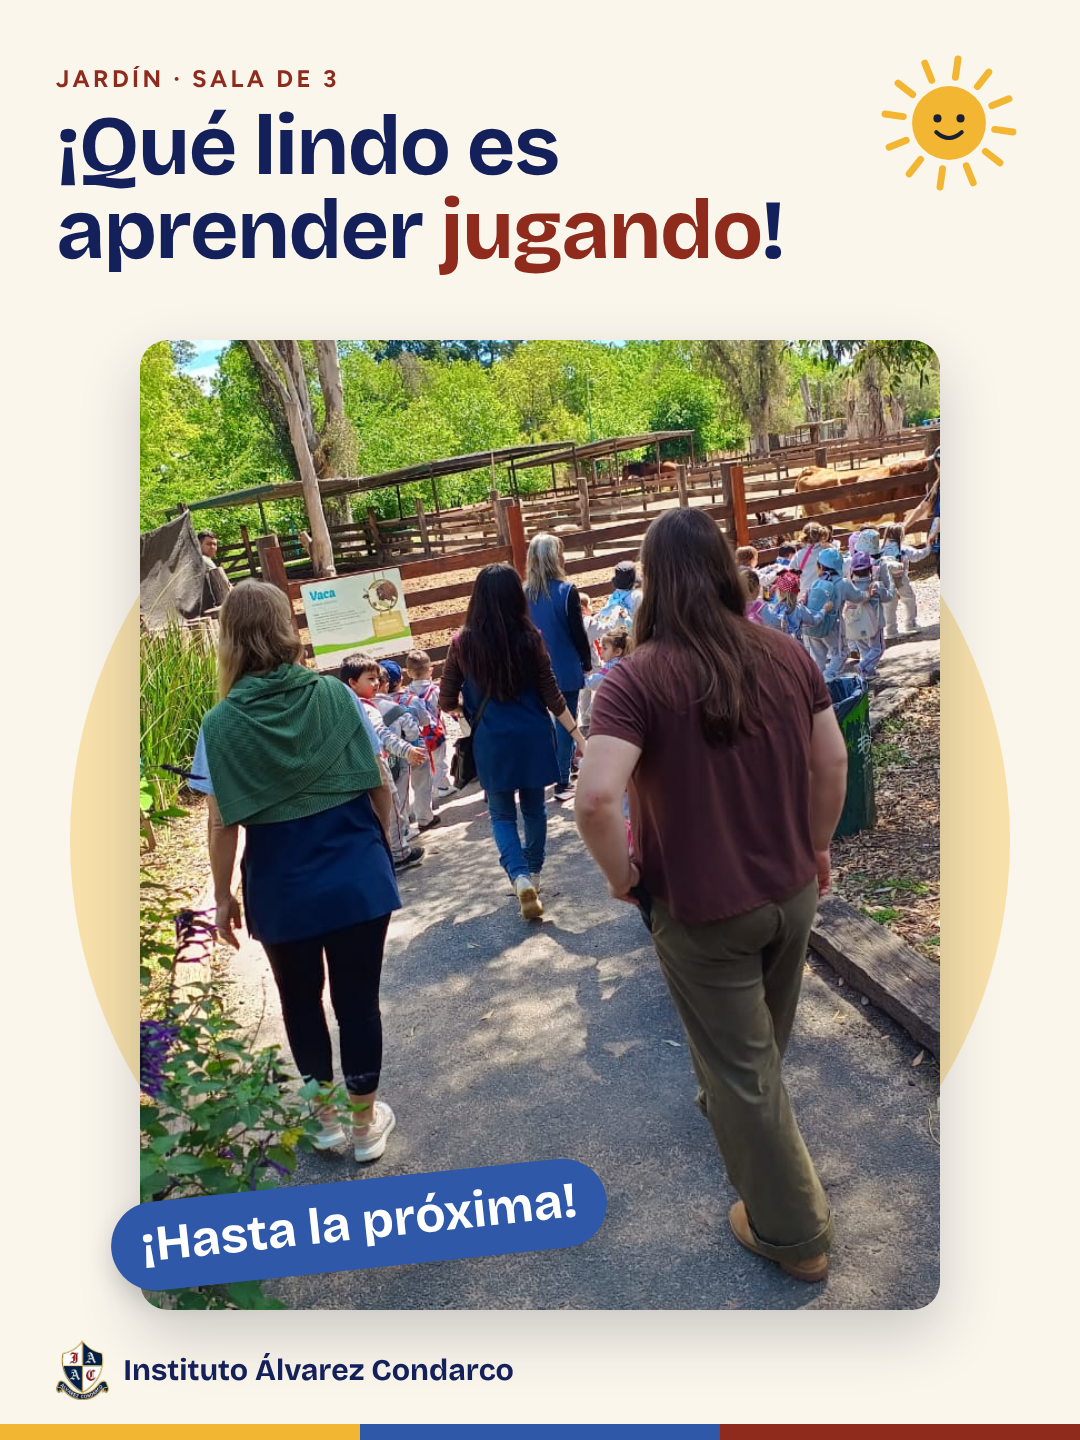
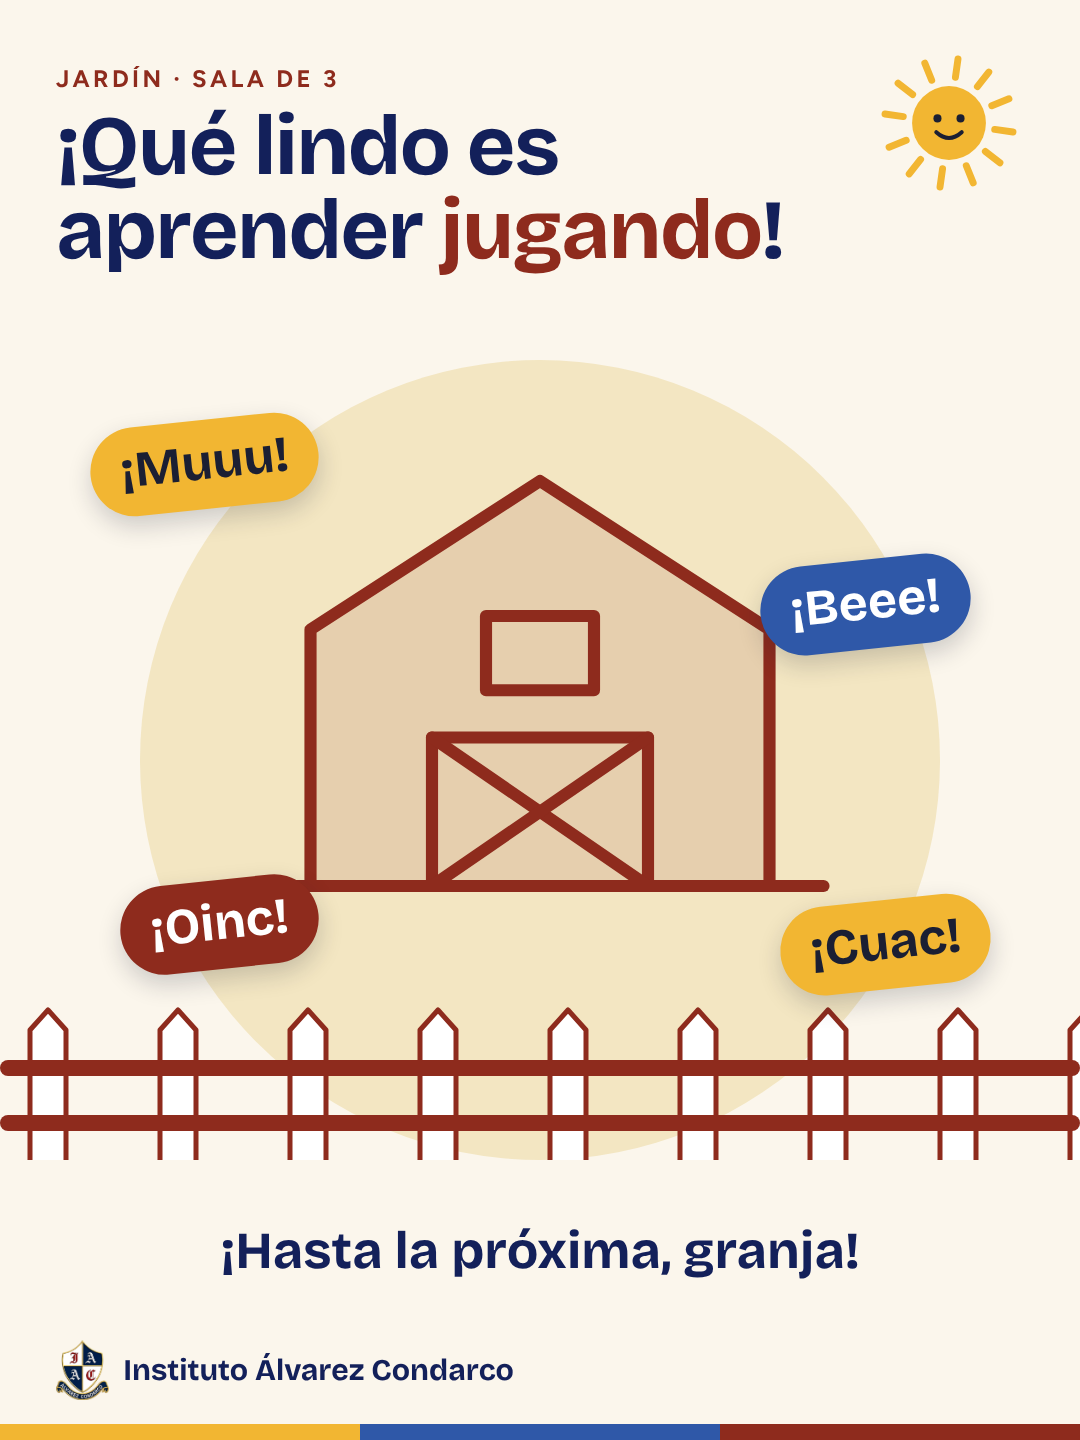
Replace last carousel slide with an illustrated barn closing
Claude-Session: https://claude.ai/code/session_0159ATbsUYcGchepWZZ2HyWK

diff --git a/instagram-reels/src/granja/PostGranja.tsx b/instagram-reels/src/granja/PostGranja.tsx
@@ -1,6 +1,7 @@
 import React from 'react';
 import {AbsoluteFill, Img, staticFile} from 'remotion';
 import {C, DISPLAY, SANS} from '../lib';
+import {Granero} from './Granja';
 
 /**
  * Publicación de feed 3:4 (1080×1440) de la salida de Sala de 3.
@@ -112,11 +113,26 @@ export const PostGranja3: React.FC = () => (
 	</Marco>
 );
 
-/** 4 · Cierre. */
+/** 4 · Cierre ilustrado: el granero del reel, sin repetir fotos. */
 export const PostGranja4: React.FC = () => (
-	<Marco volanta="JARDÍN · SALA DE 3" titulo={<>¡Qué lindo es aprender <span style={{color: C.bordo}}>jugando</span>!</>}>
-		<div style={{position: 'absolute', left: 540 - 470, top: 370, width: 940, height: 940, borderRadius: '50%', background: C.sol, opacity: 0.35}} />
-		<Foto src="img/granja/camino-vaca.jpg" pos="50% 55%" style={{left: 140, top: 340, width: 800, height: 970, boxShadow: '0 24px 60px rgba(27,31,51,0.22)'}} />
-		<Burbuja text="¡Hasta la próxima!" color={C.celeste} ink={C.papel} style={{left: 110, top: 1180}} />
+	<Marco titulo={<>¡Qué lindo es aprender <span style={{color: C.bordo}}>jugando</span>!</>}>
+		<div style={{position: 'absolute', left: 540 - 400, top: 360, width: 800, height: 800, borderRadius: '50%', background: C.doradoClaro}} />
+		<div style={{position: 'absolute', top: 470, width: '100%', display: 'flex', justifyContent: 'center', transform: 'scale(1.35)'}}>
+			<Granero progress={1} />
+		</div>
+		{/* cerca */}
+		<svg width={1080} height={200} style={{position: 'absolute', left: 0, top: 1000}}>
+			{Array.from({length: 9}, (_, i) => {
+				const x = 30 + i * 130;
+				return <path key={i} d={`M${x} 160 V30 l18 -20 l18 20 V160`} fill={C.papel} stroke={C.bordo} strokeWidth={5} strokeLinejoin="round" />;
+			})}
+			<rect x={0} y={60} width={1080} height={16} rx={8} fill={C.bordo} />
+			<rect x={0} y={115} width={1080} height={16} rx={8} fill={C.bordo} />
+		</svg>
+		<Burbuja text="¡Muuu!" color={C.sol} ink={C.tinta} style={{left: 90, top: 420}} />
+		<Burbuja text="¡Beee!" color={C.celeste} ink={C.papel} style={{left: 760, top: 560}} />
+		<Burbuja text="¡Oinc!" color={C.bordo} ink={C.papel} style={{left: 120, top: 880}} />
+		<Burbuja text="¡Cuac!" color={C.sol} ink={C.tinta} style={{left: 780, top: 900}} />
+		<div style={{position: 'absolute', top: 1220, width: '100%', textAlign: 'center', fontFamily: DISPLAY, fontWeight: 700, fontSize: 52, color: C.azul}}>¡Hasta la próxima, granja!</div>
 	</Marco>
 );

diff --git a/instagram-reels/src/granja/Granja.tsx b/instagram-reels/src/granja/Granja.tsx
@@ -144,7 +144,7 @@ const Huella: React.FC<{x: number; y: number; rot: number; o: number}> = ({x, y,
 );
 
 /** Granero de línea que se dibuja. */
-const Granero: React.FC<{progress: number}> = ({progress}) => {
+export const Granero: React.FC<{progress: number}> = ({progress}) => {
 	const paths = ['M60 360 V170 L230 60 L400 170 V360 Z', 'M150 360 V250 H310 V360', 'M150 250 L310 360', 'M310 250 L150 360', 'M190 160 H270 V215 H190 Z', 'M20 360 H440'];
 	return (
 		<svg width={460} height={400} viewBox="0 0 460 400">
